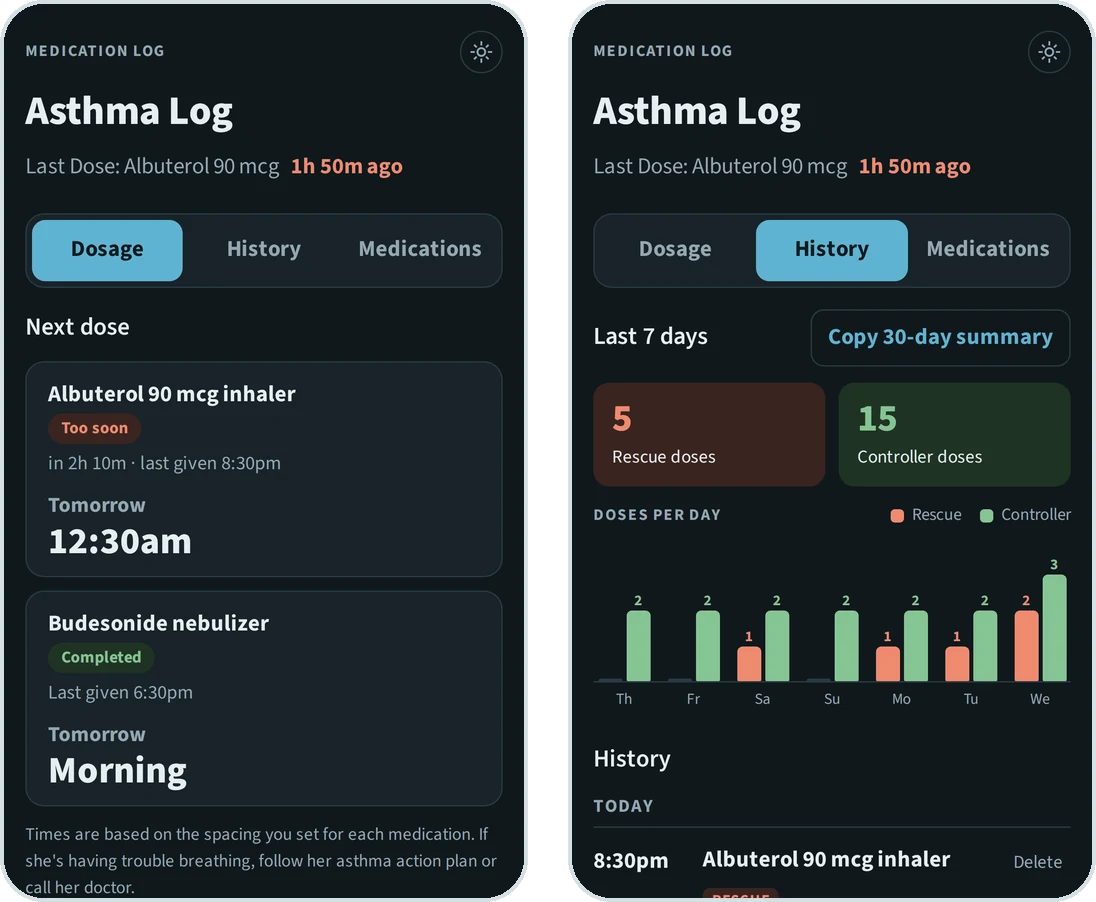
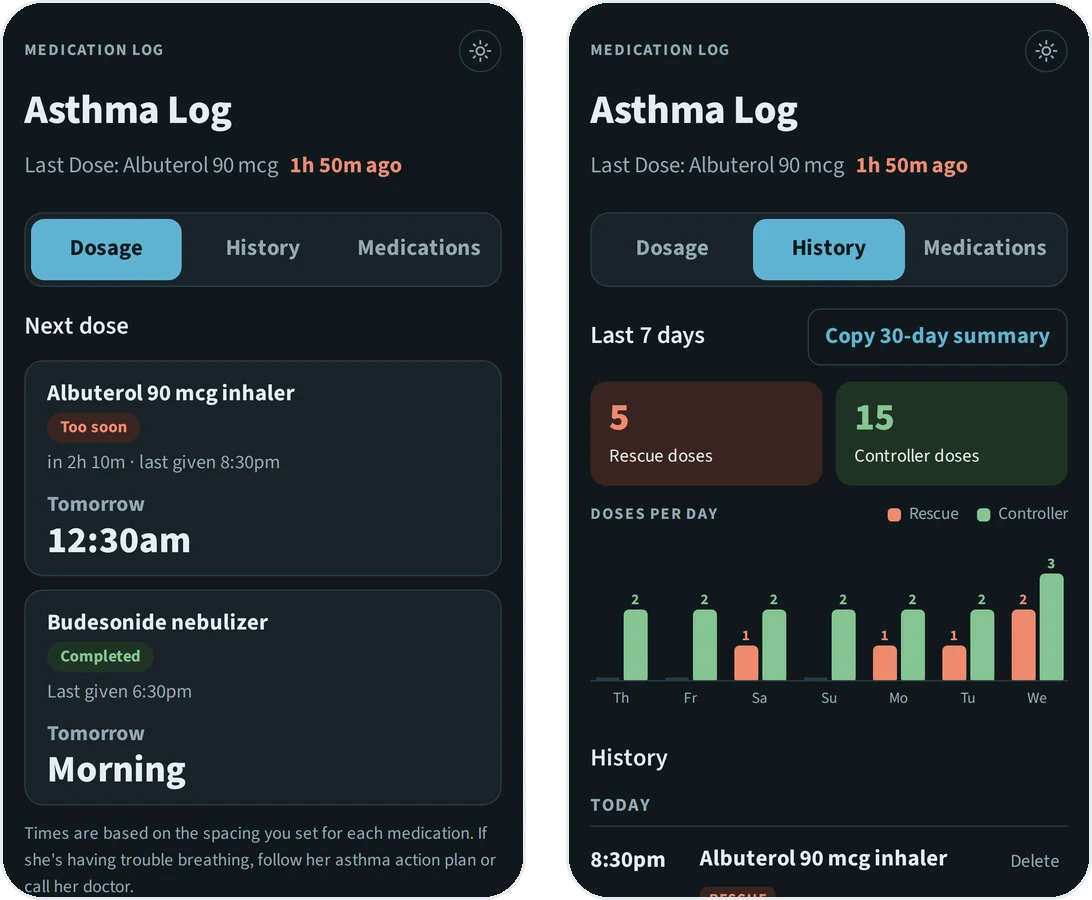
Asthma Log: align screens with the text column, lighter frames; load current stylesheet
Claude-Session: https://claude.ai/code/session_01KdyUz7GQi9CH7iag3yjJM9

diff --git a/asthma-log.html b/asthma-log.html
@@ -14,7 +14,7 @@
 <link rel="preconnect" href="https://fonts.googleapis.com">
 <link rel="preconnect" href="https://fonts.gstatic.com" crossorigin>
 <link rel="stylesheet" href="https://fonts.googleapis.com/css2?family=Google+Sans+Text:wght@400;500;700&family=Sofia+Sans:ital,wght@0,300;0,400;0,500;0,600;0,700;1,400&family=Material+Symbols+Rounded:opsz,wght,FILL,GRAD@20..48,100..700,0..1,-50..200&display=swap">
-<link rel="stylesheet" href="assets/css/site.css?v=20261001a">
+<link rel="stylesheet" href="assets/css/site.css?v=20261001d">
 </head>
 <body class="cs-phones">
 <a class="skip btn btn-filled" href="#main">Skip to content</a>
@@ -45,7 +45,7 @@
       <div class="card card-filled"><p class="supporting"><span class="ms" aria-hidden="true">open_in_new</span>Live app</p><p><a href="https://raysantos.github.io/asthma-log/" target="_blank" rel="noopener">Asthma Log</a></p></div>
     </div>
     <figure class="fig">
-      <button class="zoom" type="button" aria-label="Enlarge: Dosage, History and Medications screens"><div class="media bare"><img src="assets/img/asthma-hero.webp?v=2" width="1664" height="902" alt="Three phone screens of Asthma Log: Dosage with next-dose cards, History with a seven-day chart of rescue and controller doses, and the Medications list."></div><span class="hint" aria-hidden="true"><span class="ms">zoom_in</span></span></button>
+      <button class="zoom" type="button" aria-label="Enlarge: Dosage, History and Medications screens"><div class="media bare"><img src="assets/img/asthma-hero.webp?v=3" width="1658" height="900" alt="Three phone screens of Asthma Log: Dosage with next-dose cards, History with a seven-day chart of rescue and controller doses, and the Medications list."></div><span class="hint" aria-hidden="true"><span class="ms">zoom_in</span></span></button>
       <figcaption><b>Three tabs, one job each.</b> Dosage answers "can she have it now?", History shows the week, and Medications holds what she takes and how often.</figcaption>
     </figure>
   </section>
@@ -74,7 +74,7 @@
       </div>
     </div>
     <figure class="fig narrow">
-      <div class="media bare"><video src="assets/video/asthma-walkthrough.mp4" poster="assets/img/asthma-walkthrough-poster.webp" width="720" height="1404" autoplay muted loop playsinline preload="metadata" aria-label="Screen recording: logging the morning Budesonide dose with a note, checking it in History, adding an allergy syrup in Medications, then returning to Dosage where its new card appears." style="display:block;width:min(100%,360px);height:auto;margin:0 auto;border:4px solid #d5e0e5;border-radius:28px;background:#fff"></video></div>
+      <div class="media bare"><video src="assets/video/asthma-walkthrough.mp4" poster="assets/img/asthma-walkthrough-poster.webp" width="720" height="1404" autoplay muted loop playsinline preload="metadata" aria-label="Screen recording: logging the morning Budesonide dose with a note, checking it in History, adding an allergy syrup in Medications, then returning to Dosage where its new card appears." style="display:block;width:min(100%,360px);height:auto;margin:0;border:3px solid #e6ecef;border-radius:28px;background:#fff"></video></div>
       <figcaption><b>Log, review, add.</b> Every tap in the recording is a real tap in the app.</figcaption>
     </figure>
   </section>
@@ -91,7 +91,7 @@
       </div>
     </div>
     <figure class="fig narrow">
-      <button class="zoom" type="button" aria-label="Enlarge: Dosage tab and early-dose warning"><div class="media bare"><img src="assets/img/asthma-dosage.webp?v=2" width="1096" height="902" alt="Two phone screens: the Dosage tab with next-dose cards for Albuterol and Budesonide, and the dose form showing a warning that a new dose would be 110 minutes after the last one."></div><span class="hint" aria-hidden="true"><span class="ms">zoom_in</span></span></button>
+      <button class="zoom" type="button" aria-label="Enlarge: Dosage tab and early-dose warning"><div class="media bare"><img src="assets/img/asthma-dosage.webp?v=3" width="1092" height="900" alt="Two phone screens: the Dosage tab with next-dose cards for Albuterol and Budesonide, and the dose form showing a warning that a new dose would be 110 minutes after the last one."></div><span class="hint" aria-hidden="true"><span class="ms">zoom_in</span></span></button>
       <figcaption><b>Next dose, then log.</b> Picking a medication fills in its usual amount and the current time. Logging inside the spacing window shows a heads-up but still saves, because parents often log a dose after the fact.</figcaption>
     </figure>
   </section>
@@ -121,7 +121,7 @@
       </div>
     </div>
     <figure class="fig narrow">
-      <button class="zoom" type="button" aria-label="Enlarge: History tab"><div class="media bare"><img src="assets/img/asthma-history.webp?v=2" width="1096" height="902" alt="Two phone screens of the History tab: weekly totals, a doses-per-day bar chart for rescue and controller, and the dose list grouped by day."></div><span class="hint" aria-hidden="true"><span class="ms">zoom_in</span></span></button>
+      <button class="zoom" type="button" aria-label="Enlarge: History tab"><div class="media bare"><img src="assets/img/asthma-history.webp?v=3" width="1092" height="900" alt="Two phone screens of the History tab: weekly totals, a doses-per-day bar chart for rescue and controller, and the dose list grouped by day."></div><span class="hint" aria-hidden="true"><span class="ms">zoom_in</span></span></button>
       <figcaption><b>Doses per day</b>, with red for rescue and green for controller, above the full dose list.</figcaption>
     </figure>
   </section>
@@ -138,7 +138,7 @@
       </div>
     </div>
     <figure class="fig narrow">
-      <button class="zoom" type="button" aria-label="Enlarge: locked phone"><div class="media bare"><img src="assets/img/asthma-lock.webp?v=2" width="1096" height="902" alt="Two phone screens on a locked device: the dose form with a password box in place of the Save button, and the History tab still open to view."></div><span class="hint" aria-hidden="true"><span class="ms">zoom_in</span></span></button>
+      <button class="zoom" type="button" aria-label="Enlarge: locked phone"><div class="media bare"><img src="assets/img/asthma-lock.webp?v=3" width="1092" height="900" alt="Two phone screens on a locked device: the dose form with a password box in place of the Save button, and the History tab still open to view."></div><span class="hint" aria-hidden="true"><span class="ms">zoom_in</span></span></button>
       <figcaption><b>A locked phone</b> swaps the Save button for a password box. History stays open to everyone.</figcaption>
     </figure>
   </section>
@@ -160,7 +160,7 @@
       </div>
     </div>
     <figure class="fig narrow">
-      <button class="zoom" type="button" aria-label="Enlarge: dark mode"><div class="media bare"><img src="assets/img/asthma-dark.webp" width="1096" height="902" alt="The Dosage and History tabs in dark mode."></div><span class="hint" aria-hidden="true"><span class="ms">zoom_in</span></span></button>
+      <button class="zoom" type="button" aria-label="Enlarge: dark mode"><div class="media bare"><img src="assets/img/asthma-dark.webp?v=3" width="1092" height="900" alt="The Dosage and History tabs in dark mode."></div><span class="hint" aria-hidden="true"><span class="ms">zoom_in</span></span></button>
       <figcaption><b>Dark mode</b>, designed alongside light rather than inverted from it.</figcaption>
     </figure>
   </section>

diff --git a/index.html b/index.html
@@ -16,7 +16,7 @@
 <link rel="preconnect" href="https://fonts.googleapis.com">
 <link rel="preconnect" href="https://fonts.gstatic.com" crossorigin>
 <link rel="stylesheet" href="https://fonts.googleapis.com/css2?family=Google+Sans+Text:wght@400;500;700&family=Sofia+Sans:ital,wght@0,300;0,400;0,500;0,600;0,700;1,400&family=Material+Symbols+Rounded:opsz,wght,FILL,GRAD@20..48,100..700,0..1,-50..200&display=swap">
-<link rel="stylesheet" href="assets/css/site.css?v=20261001a">
+<link rel="stylesheet" href="assets/css/site.css?v=20261001d">
 </head>
 <body>
 <a class="skip btn btn-filled" href="#main">Skip to content</a>
@@ -56,7 +56,7 @@
         <ul class="chips"><li class="chip">Mobile web app</li><li class="chip">Health UX</li><li class="chip">Firebase</li></ul>
         <span class="btn btn-tonal"><span class="ms" aria-hidden="true">arrow_forward</span>Read the case study</span>
       </div>
-      <div class="media bare"><video src="assets/video/asthma-walkthrough.mp4" poster="assets/img/asthma-walkthrough-poster.webp" width="720" height="1404" autoplay muted loop playsinline preload="metadata" aria-label="Screen recording: logging the morning Budesonide dose with a note, checking it in History, adding an allergy syrup in Medications, then returning to Dosage where its new card appears." style="display:block;width:min(100%,300px);height:auto;margin:0 auto;border:4px solid #d5e0e5;border-radius:28px;background:#fff"></video></div>
+      <div class="media bare"><video src="assets/video/asthma-walkthrough.mp4" poster="assets/img/asthma-walkthrough-poster.webp" width="720" height="1404" autoplay muted loop playsinline preload="metadata" aria-label="Screen recording: logging the morning Budesonide dose with a note, checking it in History, adding an allergy syrup in Medications, then returning to Dosage where its new card appears." style="display:block;width:min(100%,300px);height:auto;margin:0 auto;border:3px solid #e6ecef;border-radius:28px;background:#fff"></video></div>
     </a>
 
     <a class="card card-elevated feature" href="kids-week.html">

diff --git a/assets/css/site.css b/assets/css/site.css
@@ -219,8 +219,10 @@ a.card-elevated:hover { box-shadow: var(--elev-2); }
 .cs-phones .cs-sec { padding-block: 96px 0; }
 .cs-phones .cs-hero .fig { margin-top: 48px; }
 .cs-phones .fig { margin-top: 48px; }
-.cs-phones .fig.narrow { max-width: 46rem; margin-inline: auto; }
-.cs-phones .fig figcaption { margin: 20px auto 0; max-width: 36rem; text-align: center; line-height: 1.55; }
+.cs-phones .fig.narrow { max-width: 42rem; margin-inline: 0; }
+.cs-phones .fig figcaption { margin: 20px 0 0; max-width: 36rem; text-align: left; line-height: 1.55; }
+/* Line the screens and captions up with the paragraph column (220px label + 32px gap) */
+@media (min-width: 840px) { .cs-phones .cs-sec .fig.narrow { margin-left: calc(220px + 32px); } }
 .cs-phones .next { margin-top: 96px; }
 @media (max-width: 839px) { .cs-phones .cs-sec { padding-block: 64px 0; } .cs-phones .fig { margin-top: 32px; } }
 @media (max-width: 839px) { .feature { grid-template-columns: minmax(0, 1fr); padding: 20px; } }

diff --git a/kids-week.html b/kids-week.html
@@ -14,7 +14,7 @@
 <link rel="preconnect" href="https://fonts.googleapis.com">
 <link rel="preconnect" href="https://fonts.gstatic.com" crossorigin>
 <link rel="stylesheet" href="https://fonts.googleapis.com/css2?family=Google+Sans+Text:wght@400;500;700&family=Sofia+Sans:ital,wght@0,300;0,400;0,500;0,600;0,700;1,400&family=Material+Symbols+Rounded:opsz,wght,FILL,GRAD@20..48,100..700,0..1,-50..200&display=swap">
-<link rel="stylesheet" href="assets/css/site.css?v=20261001a">
+<link rel="stylesheet" href="assets/css/site.css?v=20261001d">
 </head>
 <body>
 <a class="skip btn btn-filled" href="index.html#main">Skip to content</a>
